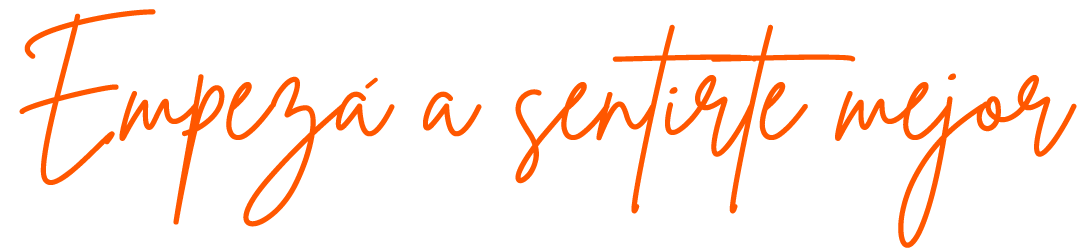
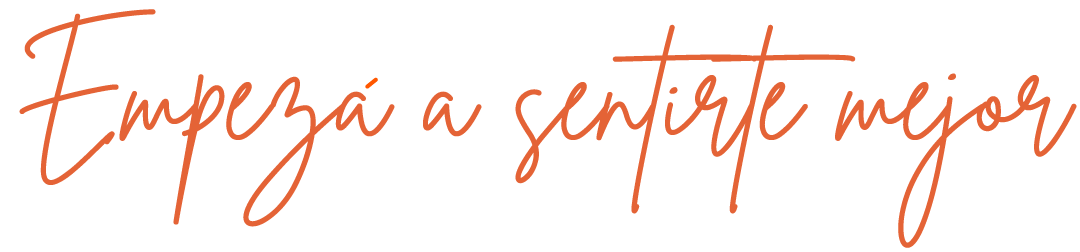
correcciones2

diff --git a/index.html b/index.html
@@ -88,18 +88,18 @@
                         según lo que hoy estés necesitando.</h5>
                     <div class="d-flex justify-content-center gap-3 mt-3 mb-3 align-items-center fade-in">
                         <div class="card p-4 shadow">
-                            <p>¿Sentís que algo interno te está pidiendo un cambio?</p>
+                            <p><b>¿Sentís que algo interno te está pidiendo un cambio?</b></p>
                             <p>El <span>coaching ontológico</span> ayuda a
                         ordenar las emociones, pensar con claridad y tomar decisiones más alineadas con quien sos.</p>
-                            <a href="https://wa.me/59895500511?text=Hola!%20Me%20contacto%20para%20saber%20más%20sobre%20el%20coaching%20ontológico..." class="hover">Quiero un cambio interno</a>
+                            <a href="https://wa.me/59895500511?text=Hola!%20Me%20contacto%20para%20saber%20más%20sobre%20el%20coaching%20ontológico..." class="btn cta text-decoration-none">Quiero un cambio interno</a>
                         </div>
 
                         <div class="card2 p-4 shadow">
-                            <p>¿Querés transformar tu casa o tu espacio de trabajo?</p>
+                            <p><b>¿Querés transformar tu casa o tu espacio de trabajo?</b></p>
                             <p>El <span>Feng Shui</span> y la geobiología permiten
                         armonizar los espacios que habitás, para que te recarguen en lugar de drenarte.</p>
                         <p>Te propongo un estudio de Feng Shui Avanzando y personalizado que se adapta a cualquier espacio.</p>
-                        <a href="https://wa.me/59895500511?text=Hola!%20Quiero%20más%20información%20sobre%20asesoramiento%20de%20Feng%20Shui..." class="hover">Quiero transformar un espacio</a>
+                        <a href="https://wa.me/59895500511?text=Hola!%20Quiero%20más%20información%20sobre%20asesoramiento%20de%20Feng%20Shui..." class="btn cta text-decoration-none">Quiero transformar un espacio</a>
                         </div>
                     </div>
 
@@ -130,7 +130,7 @@
                             Sesiones online o presenciales, adaptadas a tu disponibilidad.
                             </p>
                             <a href="https://wa.me/59895500511?text=Hola!%20Quiero%20empezar%20mi%20transformación..." class="btn btn-success mt-auto">
-                                Quiero empezar mi transformación ya</a>
+                                ¡QUIERO EMPEZAR MI TRANSFORMACIÓN YA!</a>
                         </div>
                         </div>
                     </div>
@@ -161,7 +161,7 @@
                             Soluciones realistas y accesibles.
                             </p>
                             <a href="https://wa.me/59895500511?text=Hola!%20Quiero%20convertir%20mi%20casa%20en%20un%20refugio..." class="btn btn-success mt-auto">
-                            Quiero potenciar mi hogar hoy
+                            ¡QUIERO POTENCIAR MI HOGAR HOY!
                             </a>
                         </div>
                         </div>
@@ -177,7 +177,7 @@
                             sin necesidad de grandes reformas.
                             </p>
                             <a href="https://wa.me/59895500511?text=Hola!%20Quiero%20optimizar%20el%20espacio%20laboral..." class="btn btn-success mt-auto">
-                                Quiero optimizar el espacio laboral ahora</a>
+                                ¡QUIERO OPTIMIZAR MI ESPACIO LABORAL!</a>
                         </div>
                         </div>
                     </div>
@@ -191,7 +191,7 @@
                             Durante la visita sugiero correcciones inmediatas para armonizar el espacio, especialmente en áreas de descanso.
                             </p>
                             <a href="https://wa.me/59895500511?text=Hola!%20Quiero%20diagnosticar%20energías%20invisibles..." class="btn btn-success mt-auto">
-                                Quiero diagnosticar las energías invisibles</a>
+                                ¡QUIERO DIAGNOSTICAR ENERGÍAS INVISIBLES!</a>
                         </div>
                         </div>
                     </div>
@@ -206,7 +206,7 @@
                             para que tu hogar sea un refugio de armonía y éxito.
                             </p>
                             <a href="https://wa.me/59895500511?text=Hola!%20Quiero%20elegir%20el%20mejor%20lugar%20para%20construir..." class="btn btn-success mt-auto">
-                                Quiero elegir el mejor lugar para construir</a>
+                                ¡QUIERO ELEGIR EL MEJOR LUGAR PARA CONSTRUIR YA!</a>
                         </div>
                         </div>
                     </div>
@@ -221,7 +221,7 @@
                             Modalidad online y presencial, con contenidos aplicables desde el primer día.
                             </p>
                             <a href="https://wa.me/59895500511?text=Hola!%20Quiero%20recibir%20información%20sobre%20cursos%20y%20talleres..." class="btn btn-success mt-auto">
-                                Quiero más información</a>
+                               ¡QUIERO MÁS INFORMACIÓN!</a>
                         </div>
                         </div>
                     </div>
@@ -238,7 +238,7 @@
                             </p>
                             <p>Realizado por Lourdes Escofet, especialista en numerología.</p>
                             <a href="https://wa.me/59895500511?text=Hola!%20Quiero%20descubrir%20lo%20que%20dicen%20mis%20números..." class="btn btn-success mt-auto">
-                                Quiero descubrir lo que dicen mis números</a>
+                                ¡QUIERO DESCUBRIR MIS NÚMEROS AHORA!</a>
                         </div>
                         </div>
                     </div>
@@ -395,9 +395,10 @@
             <a class="navbar-brand" href="index.html">
                 <img src="img/[MikaMelloni]-LogoServicios.png" alt="Logo Mika Melloni" width="180">
             </a>
-            <p>mikamelloni@gmail.com <br> +598 95 500 511</p>
+            <p><span>Con el respaldo del Instituto Uruguayo de Feng Shui</span></p>
+            <p class="smaller">mikamelloni@gmail.com <br> +598 95 500 511</p>
             <hr>
-            <p class="copyright">Copyright © 2025. Desarrollado por Natalia Acevedo.</p>
+            <p class="smaller">Copyright © 2025. Desarrollado por Natalia Acevedo.</p>
         </div>
     </footer>
     

diff --git a/estilos.css b/estilos.css
@@ -2,7 +2,7 @@
     --primario: #e0b066;
     --secundario: #c6d4b4;
     --terciario: #cc8755;
-    --anaranjado: #eb580c;
+    --anaranjado: #c9633b;
     --verde: #78994b;
 
     color-scheme: light;
@@ -39,6 +39,21 @@ html{
 
 span {
     font-weight: bold;
+}
+
+.cta{
+  background-color: rgb(241, 241, 241);
+  color: black !important;
+  font-size: small;
+  border-radius: 50px;
+  transition: all ease-in-out 0.3s;
+  box-shadow: #00000026 2px 2px 8px;
+}
+
+.cta:hover{
+  background-color: rgb(241, 241, 241);
+  color: black;
+  opacity: 0.8;
 }
 
 /* WhatsApp */
@@ -105,10 +120,17 @@ header .links:hover {
 /* Banner */
 
 #banner{
-    background-image: url(./img/banner.jpg);
+    background-image: url(./img/banner2.jpg);
     background-position: top;
     background-size: cover;
     height: 100vh;
+}
+
+#banner::before {
+    content: "";
+    position: absolute;
+    inset: 0; /* shorthand para top, right, bottom, left: 0 */
+    background-color: rgba(198, 212, 180, 0.215); /* cambia el color y opacidad */
 }
 
 #banner h2 {
@@ -377,7 +399,7 @@ footer{
     padding: 20px;
 }
 
-.copyright{
+.smaller{
     font-size: smaller;
 }
 
